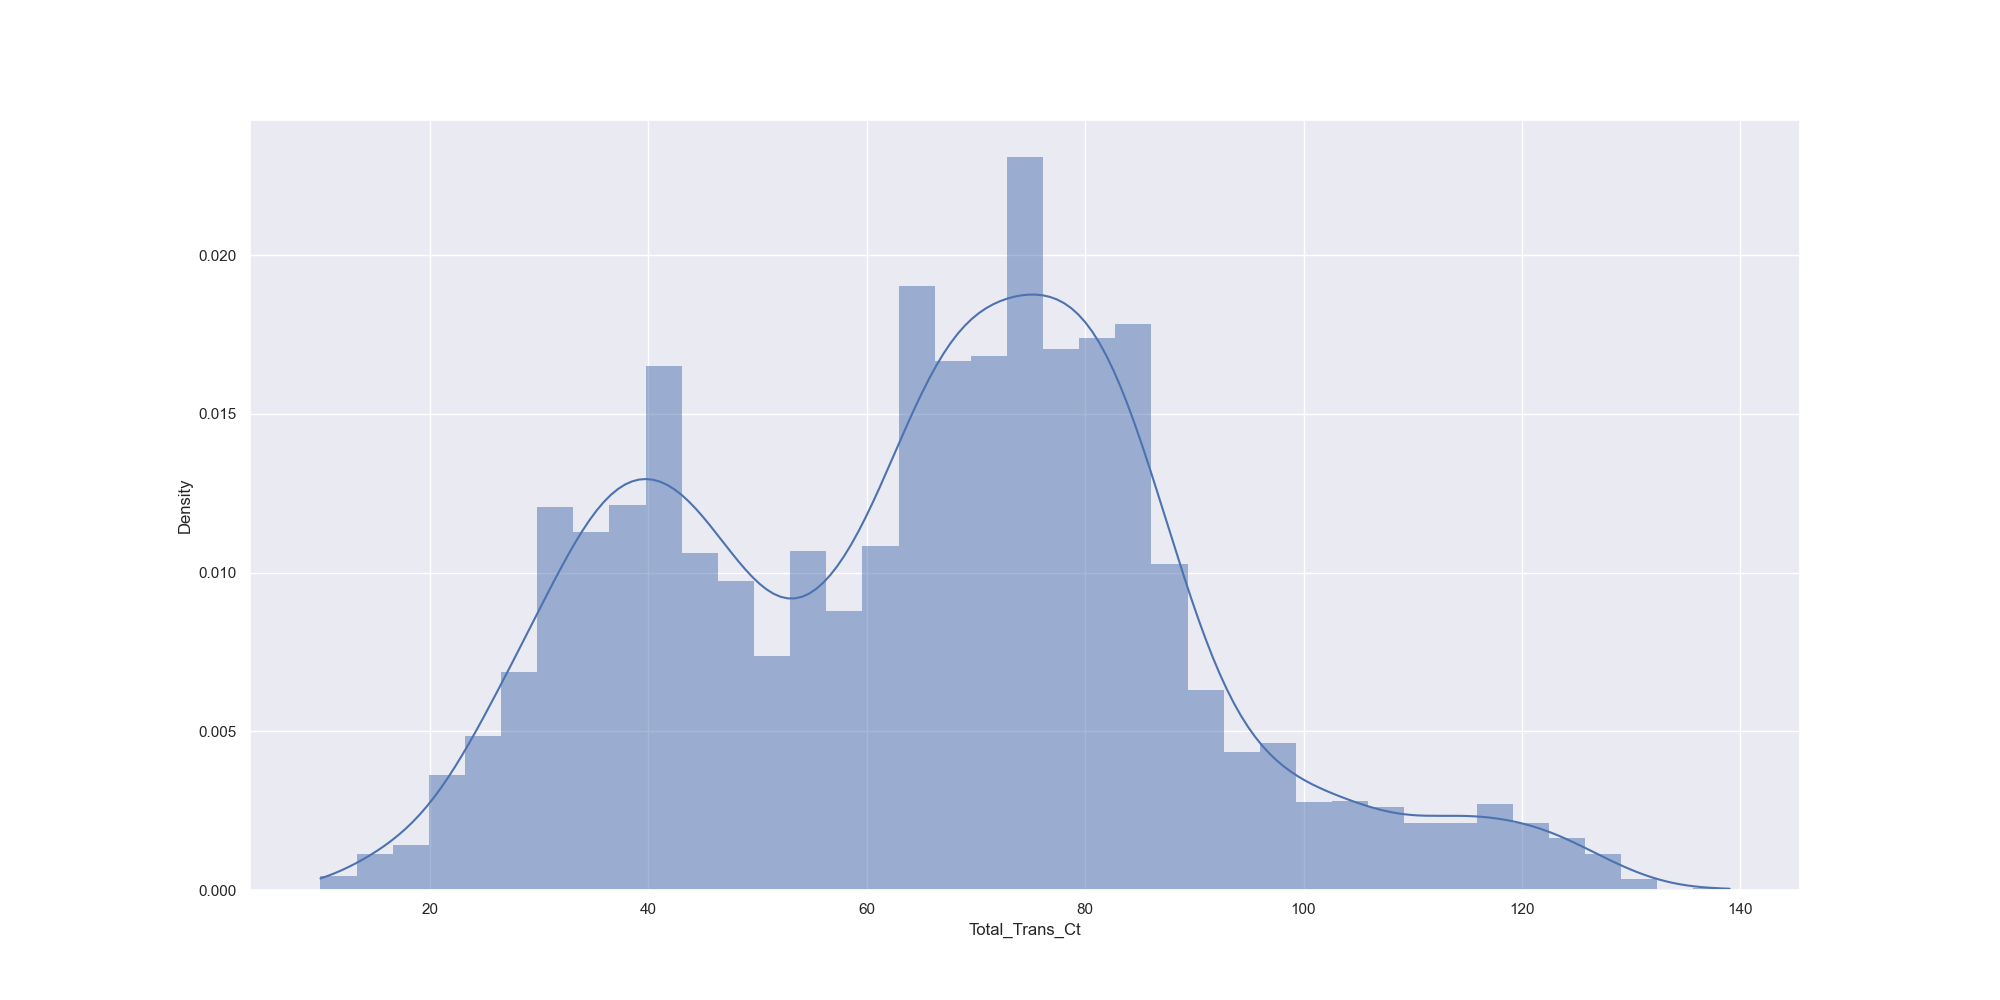
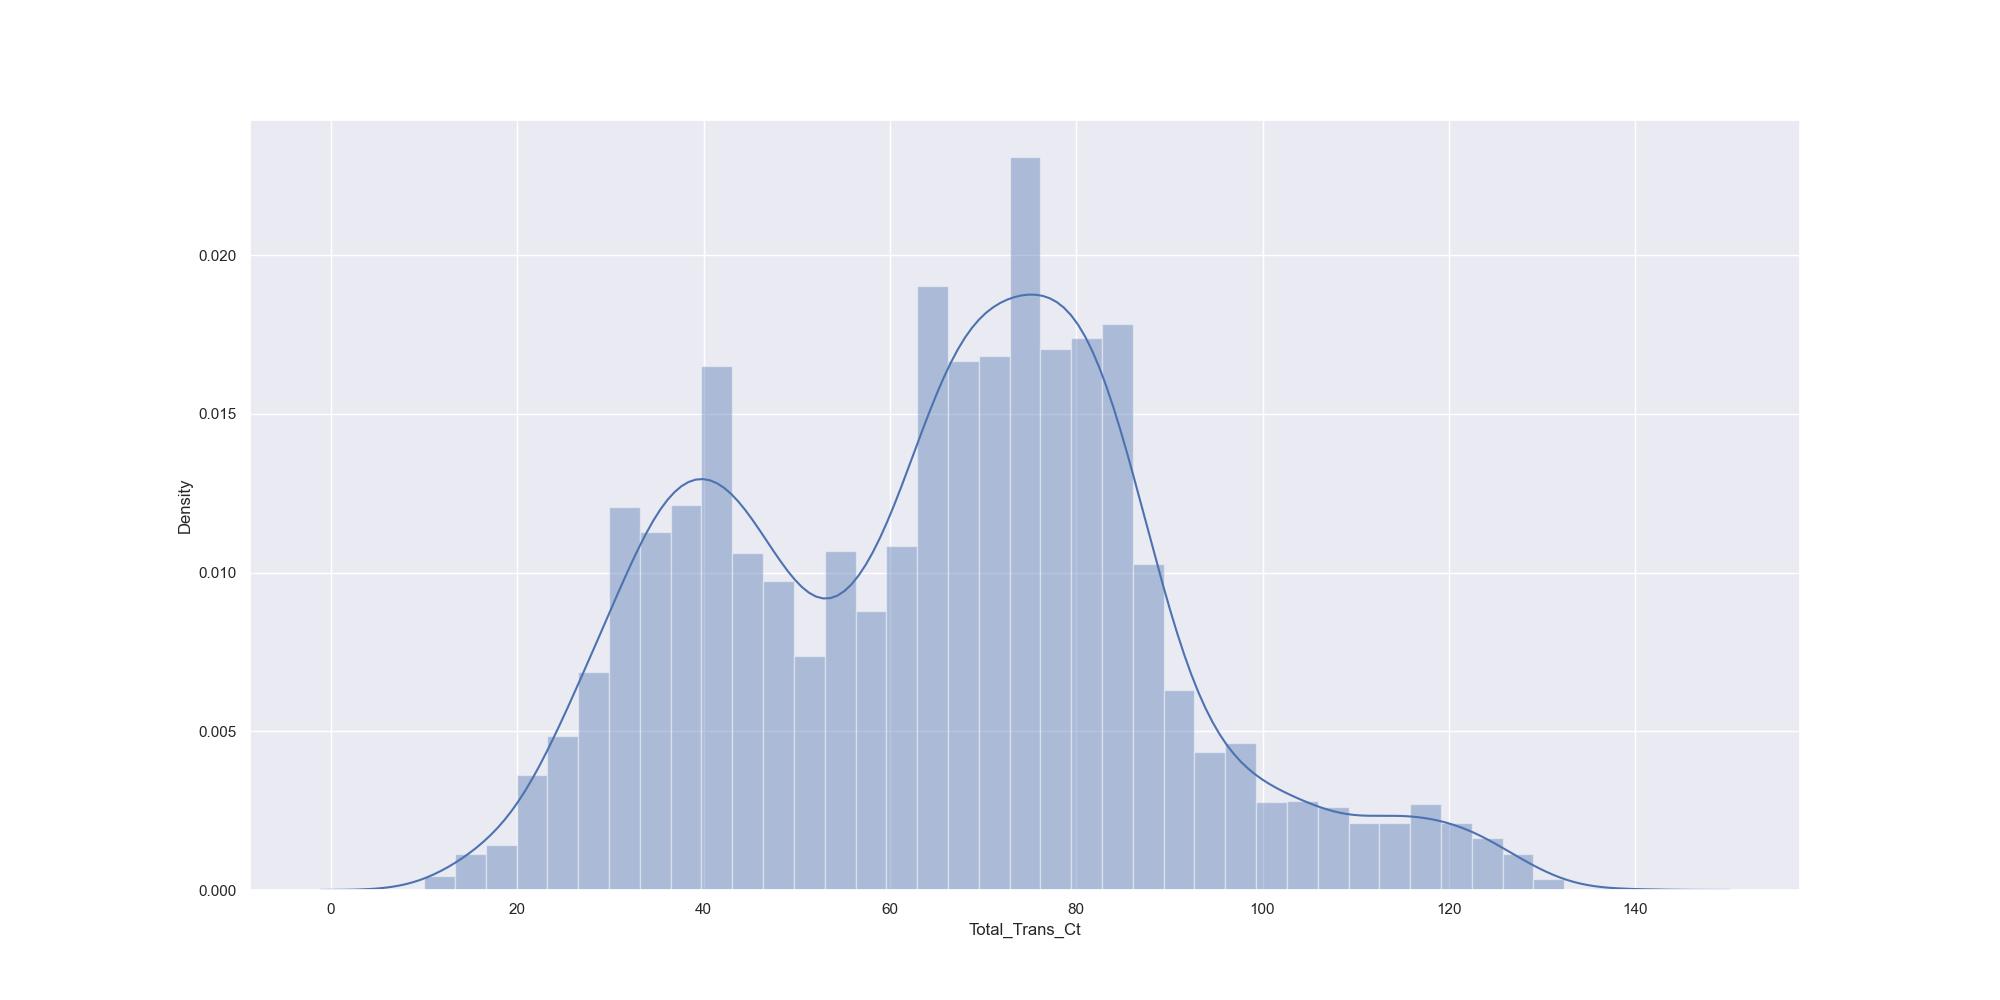
test env

Changed region(s): [[0.155, 0.155, 0.837, 0.899]]

diff --git a/app/churn_library.py b/app/churn_library.py
@@ -19,6 +19,7 @@ Date: 2022 - Jan7
 import matplotlib
 matplotlib.use('Agg')
 import os
+import joblib
 # Python3.6 
 from sklearn.metrics import classification_report, plot_roc_curve
 # Python3.9 from sklearn.metrics import classification_report, RocCurveDisplay
@@ -26,7 +27,6 @@ from sklearn.model_selection import GridSearchCV
 from sklearn.ensemble import RandomForestClassifier
 from sklearn.linear_model import LogisticRegression
 from sklearn.model_selection import train_test_split
-import joblib
 import pandas as pd
 import numpy as np
 import matplotlib.pyplot as plt
@@ -128,9 +128,10 @@ def perform_eda(df_eda, image_dir_pth):
             image_dir_pth)
 
         plt.clf()
-        #Python3.6 sns.distplot(df_eda['Total_Trans_Ct'])
-        #Python3.9
-        sns.histplot(df_eda['Total_Trans_Ct'], kde=True, stat="density", linewidth=0)
+        # Python3.6 
+        sns.distplot(df_eda['Total_Trans_Ct'])
+        # Python3.9 
+        # sns.histplot(df_eda['Total_Trans_Ct'], kde=True, stat="density", linewidth=0)
         plt.savefig(image_dir_pth + "total_trans_ct.png")
         logging.info(
             "INFO: total_trans_ct.png image is created in %s",
@@ -269,21 +270,25 @@ def compare_roc_image(
         axes = plt.gca()
         
         # Python 3.6
-        #plot_roc_curve(lr_model, features_test, target_test, ax=axes, alpha=0.8)
-        #plot_roc_curve(rf_model, features_test, target_test, ax=axes, alpha=0.8)
+        plot_roc_curve(
+            lr_model, features_test, 
+            target_test, ax=axes, alpha=0.8)
+        plot_roc_curve(
+            rf_model, features_test, 
+            target_test, ax=axes, alpha=0.8)
         #Python3.9
-        RocCurveDisplay.from_estimator(
-            lr_model,
-            features_test,
-            target_test,
-            ax=axes,
-            alpha=0.8)
-        RocCurveDisplay.from_estimator(
-             rf_model,
-             features_test,
-             target_test,
-             ax=axes,
-             alpha=0.8)
+        # RocCurveDisplay.from_estimator(
+        #     lr_model,
+        #     features_test,
+        #     target_test,
+        #     ax=axes,
+        #     alpha=0.8)
+        # RocCurveDisplay.from_estimator(
+        #      rf_model,
+        #      features_test,
+        #      target_test,
+        #      ax=axes,
+        #      alpha=0.8)
         plt.savefig(image_file_pth)
         logging.info("SUCCESS: roc image saved as %s", image_file_pth)
 
@@ -433,7 +438,7 @@ def train_models(train_features, test_features, train_target, test_target):
     try:
         # grid search
         rfc = RandomForestClassifier(random_state=42)
-        lrc = LogisticRegression()
+        lrc = LogisticRegression(max_iter=1000)
 
         # train models
         cv_rfc = GridSearchCV(estimator=rfc, param_grid=param_grid, cv=5)
@@ -476,15 +481,15 @@ if __name__ == "__main__":
         # feature extraction and model training
         X_train, X_test, y_train, y_test = perform_feature_engineering(
             df, features, target)
-        # lr, rf = train_models(X_train, X_test, y_train, y_test)
-        # joblib.dump(lr, './models/lr_model.pkl')
-        # joblib.dump(rf, './models/rf_model.pkl')
+        lr, rf = train_models(X_train, X_test, y_train, y_test)
+        joblib.dump(lr, './models/lr_model.pkl')
+        joblib.dump(rf, './models/rf_model.pkl')
 
         # generate reports / images
         classification_report_image(
-            joblib.load('./models/lr_model.pkl'),
-            X_train, X_test, y_train, y_test,
-            './images/classification_report_lr.png')
+             joblib.load('./models/lr_model.pkl'),
+             X_train, X_test, y_train, y_test,
+             './images/classification_report_lr.png')
         classification_report_image(
             joblib.load('./models/rf_model.pkl'),
             X_train, X_test, y_train, y_test,
